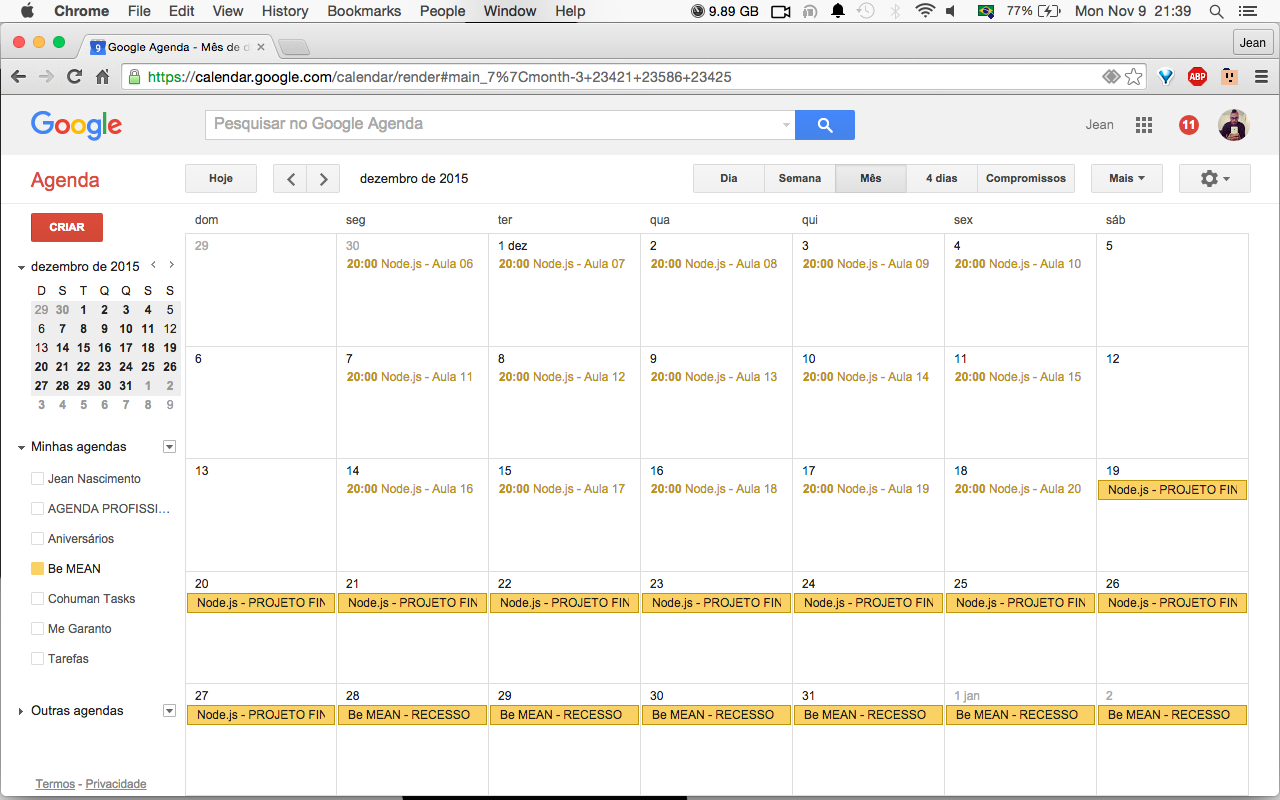
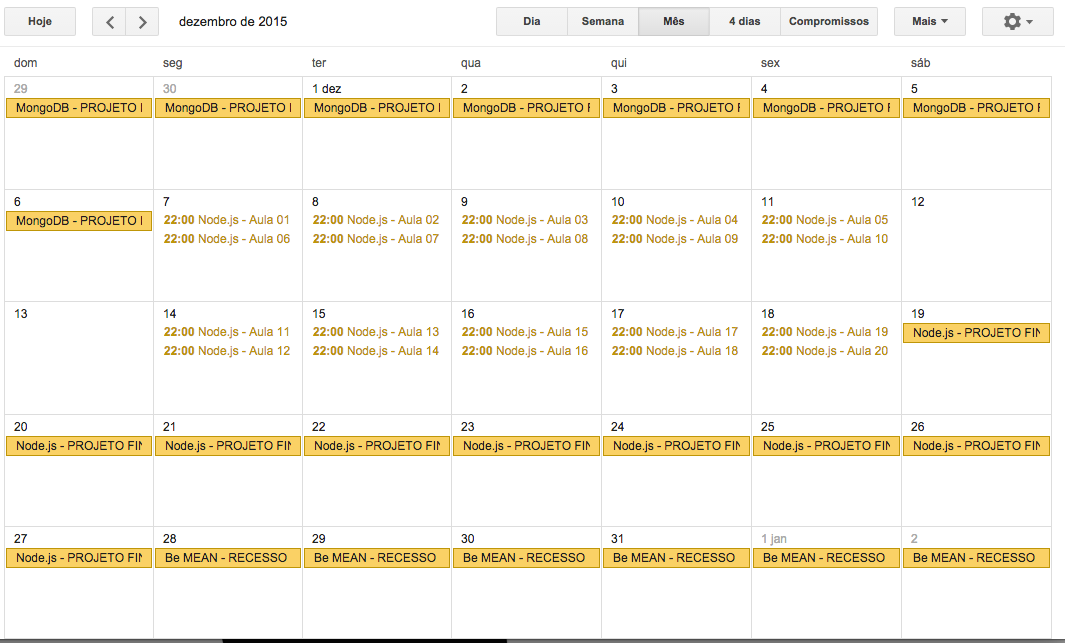
Projeto final

diff --git a/apostila/module-mongodb/project/README.md b/apostila/module-mongodb/project/README.md
@@ -39,10 +39,21 @@ Além de criar a coleção `user` e achar uma modelagem melhor da proposta, **te
 
 1. Delete todas as atic
 
+## Cluster
+
+Depois de criada toda sua base você deverá criar um cluster utilizando:
+
+- 1 Router
+- 1 Config Server
+- 3 Shardings
+- 3 Replicas
+
+Você deverá escolher qual sua coleção deverá ser *shardeada* para poder aguentar muita carga repentinamente e deverá replicar cada Shard, pode ser feito localmente como em alguma VPS FREE.
+
 
 ## Estrutura
 
-```markdown
+```
 # MongoDb - Projeto Final
 **Autor:** Nome Completo
 **Data** Data da entrega
@@ -60,5 +71,11 @@ Além de criar a coleção `user` e achar uma modelagem melhor da proposta, **te
 ## Update - alteração
 
 ## Delete - remoção
+
+## Sharding
+// coloque aqui todos os comandos que você executou
+
+## Replica
+// coloque aqui todos os comandos que você executou
 
 ```

diff --git a/README.md b/README.md
@@ -1,3 +1,7 @@
+# Dezembro
+
+![](./calendar/2015-dezembro.png)
+
 
 # Execícios mandem aqui [https://github.com/Webschool-io/be-mean-instagram-mongodb-excercises](https://github.com/Webschool-io/be-mean-instagram-mongodb-excercises)
 
